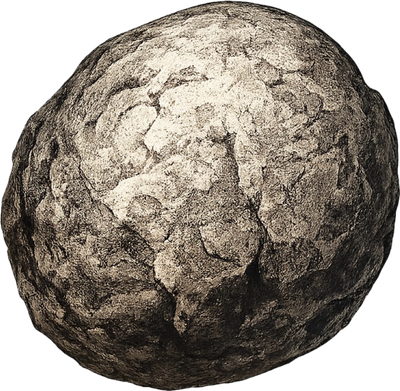
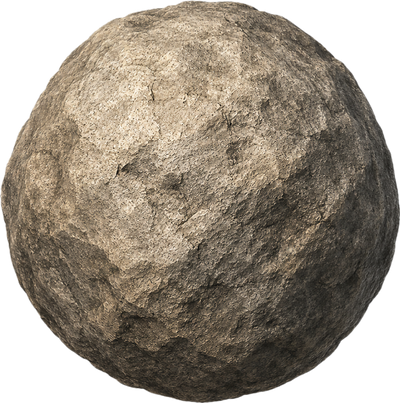
投石器モックの飛翔石イラストを新しいものに差し替え+サイズを75%に縮小
ユーザー提供の新イラストへ再差し替え(assets/vfx/catapult_stone.png)。表示サイズを
34px→26px(旧比75%)に縮小し、影(30px→23px)・中心合わせオフセットも比例して調整。

Claude-Session: https://claude.ai/code/session_018rDCLofyGiycnU8AJc8Vqj

diff --git a/mock_catapult_fx.html b/mock_catapult_fx.html
@@ -82,11 +82,11 @@
 
   /* 石(放物線飛翔) */
   .stone-fly { position: absolute; z-index: 15; pointer-events: none; will-change: transform; }
-  .stone-fly img { width: 34px; display: block; filter: drop-shadow(0 2px 3px rgba(0,0,0,0.7)); }
+  .stone-fly img { width: 26px; display: block; filter: drop-shadow(0 2px 3px rgba(0,0,0,0.7)); }
   .stone-fly.spin img { animation: stoneSpin 0.35s linear infinite; }
   @keyframes stoneSpin { from { transform: rotate(0deg); } to { transform: rotate(360deg); } }
   .stone-shadow {
-    position: absolute; z-index: 3; width: 30px; height: 9px; border-radius: 50%;
+    position: absolute; z-index: 3; width: 23px; height: 7px; border-radius: 50%;
     background: rgba(0,0,0,0.45); filter: blur(1px); pointer-events: none;
   }
   .impact-burst { position: absolute; z-index: 14; pointer-events: none; }
@@ -296,8 +296,8 @@
       // 山なり: sin弧で高さを付け、着地直前に少し加速する(ease-in寄り)
       const arcHeight = 120;
       const y = from.y + (to.y - from.y) * p - Math.sin(Math.PI * p) * arcHeight;
-      wrap.style.transform = `translate(${x - 17}px, ${y - 17}px)`;
-      shadow.style.transform = `translate(${x - 15}px, ${to.y - 4}px) scale(${0.5 + p * 0.5})`;
+      wrap.style.transform = `translate(${x - 13}px, ${y - 13}px)`;
+      shadow.style.transform = `translate(${x - 12}px, ${to.y - 4}px) scale(${0.5 + p * 0.5})`;
       shadow.style.opacity = 0.15 + p * 0.35;
       if (p < 1) requestAnimationFrame(frame);
       else {
